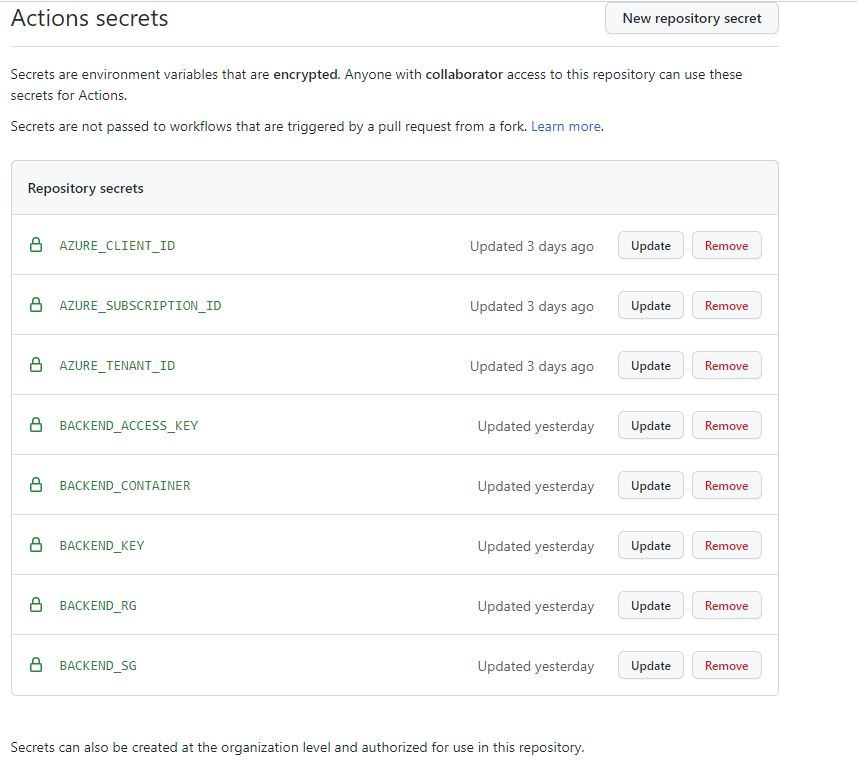
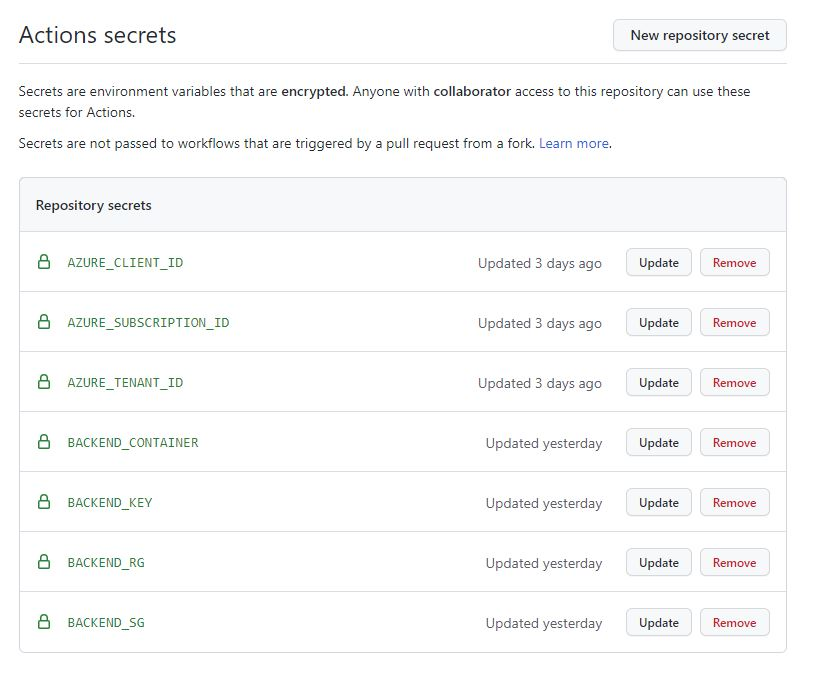
readme text - azure examples

diff --git a/pipeline-examples/azure/README.md b/pipeline-examples/azure/README.md
@@ -13,22 +13,46 @@ Assumes the cloud-provider-setup has been completed.
 
 ## Azure - CircleCI
 
+CircleCI workflows must be configured with a context to enable OIDC. See detail here : https://circleci.com/docs/openid-connect-tokens 
+
+Steps to enable OIDC in CircleCI
+
+  1.    Create an application ID in Azure (see notes [here](../../cloud-provider-setup/azure/circleci/README.md) )
+  2.    Define a context in your circleci organisation (https://circleci.com/docs/openid-connect-tokens)
+  3.    Define project level environment variables (see list below, note "Application ID" comes from Azure when you create an application registration)
+  4.    Define a workflow with the context enabled
+
+```
+workflows:
+  my-workflow:
+    jobs:
+      - run-tests:
+          context:
+            - my-context
+```
+
+  5.   Use the environment variable CIRCLECI_OIDC_TOKEN to access the token for Terraform and AZ cli.
+
+
+
 ### Example workflows
 
 - config-orb.yml - uses native circle ci orbs to create an environment with terraform
 - config-docker.yml - uses a docker image with rackspace pipeline tools added and a python script to execute the terraform in the layers/ directory structure
+  - Note: this uses a container: codeinavan/pipeline-toolbox-tf:latest created using the Dockerfile [here](docker/Dockerfile).
+  - Also note example has a context name defined, this needs to be updated to reflect your environment.
 
 Requires the project variables to be created as shown:
 
 ```
-AZURE_CLIENT_ID - teh appid created in Azure AD (see "cloud-provider-setup")
+AZURE_CLIENT_ID - the appid created in Azure AD (see "cloud-provider-setup")
 
 AZURE_TENANT_ID
 AZURE_SUBSCRIPTION_ID
 
 BACKEND_ACCESS_KEY - access key from Azure storage group, needed until terraform backend supports OIDC (see issue https://github.com/hashicorp/terraform/issues/31802 )
 
-BACKEND_RG - Resouce group of backend
+BACKEND_RG - Resource group of backend
 BACKEND_SG - Storage group of backend     
 BACKEND_CONTAINER - Container name of backend container e.g. tfstate
 BACKEND_KEY - State Key e.g. terraform.tfstate
@@ -38,6 +62,28 @@ BACKEND_KEY - State Key e.g. terraform.tfstate
 ![](./images/circleci-variables.jpg)
 
 ## Azure Github Actions
+
+GitHub Actions is easier to integrate with Azure and has better support from Terraform for OIDC, there is specific OIDC code baked into Terraform so there is no need extra tokens to provide your code.
+
+GitHub workflows must be configured with an id-token permission (see detail here) to enable OIDC. 
+
+Steps to enable OIDC in GitHub Actions:
+1.	Create an application ID in Azure (see notes above )
+2.	Define repository level secrets (see list below, note "Application ID" comes from Azure when you create an application registration)
+
+- AZURE_CLIENT_ID - the AppID created in Azure AD (see "cloud-provider-setup")
+- AZURE_TENANT_ID
+- AZURE_SUBSCRIPTION_ID
+- BACKEND_RG - Resource group of backend
+- BACKEND_SG - Storage group of backend     
+- BACKEND_CONTAINER - Container name of backend container e.g. tfstate
+- BACKEND_KEY - State Key e.g. terraform.tfstate
+
+3.	Set permissions within a workflow to allow token access
+
+
+See example workflows in this repo for a full pipeline using the above technique and also for execution using a Docker container to execute a python based Terraform wrapper.
+
 
 ### Example workflows
 
